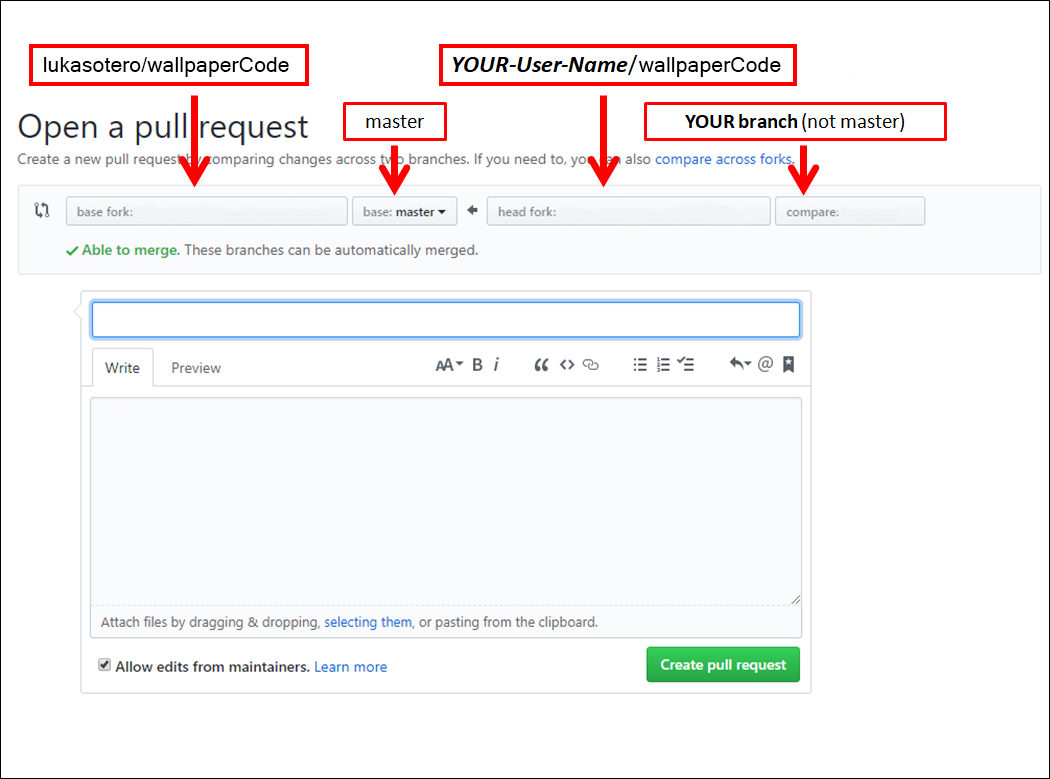
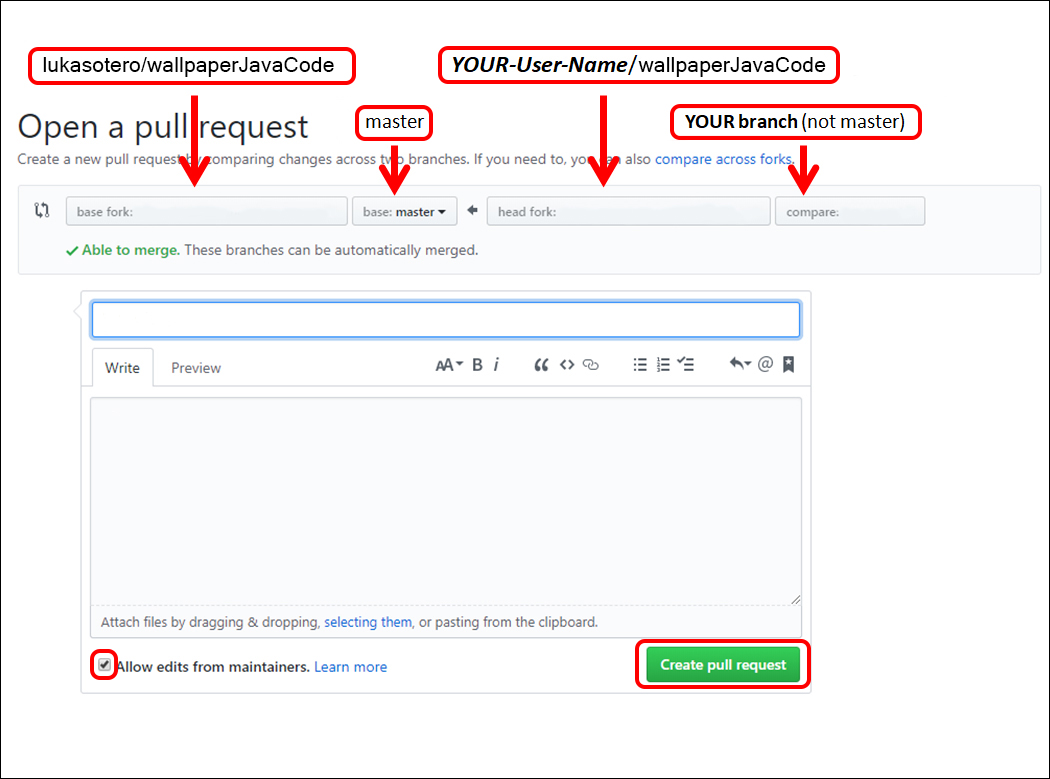
README.md

diff --git a/README.md b/README.md
@@ -1,11 +1,11 @@
-# Wallpaper Code
+# Wallpaper Java Code
 
 _Just a wallpaper, you can use it on Wallpaper Engine._
 
 ## Built with 🛠
 
 - [Javascript](https://developer.mozilla.org/en-US/docs/Web/JavaScript/Reference) - Version: ES12
-- [typed.js](https://github.com/mattboldt/typed.js/) - Library -> v2.0.12
+- [Typed.js](https://github.com/mattboldt/typed.js/) - v2.0.12
 - [HTML](https://developer.mozilla.org/en-US/docs/Web/HTML) - v5
 - [CSS](https://developer.mozilla.org/en-US/docs/Web/CSS) - v3
 
@@ -15,7 +15,7 @@ _Just a wallpaper, you can use it on Wallpaper Engine._
 
 - The objective here is to make a copy of this project and place it in your account.
 - A repository (repo) is how a project is called on GitHub and a fork is a copy of it.
-- Make sure you are on the [main page](https://github.com/lukasotero/wallpaperCode "https://github.com/lukasotero/wallpaperCode") of this repo.
+- Make sure you are on the [main page](https://github.com/lukasotero/wallpaperJavaCode "https://github.com/lukasotero/wallpaperJavaCode") of this repo.
 
 ![Fork](readme-only/fork.jpg)
 
@@ -33,7 +33,7 @@ _Just a wallpaper, you can use it on Wallpaper Engine._
 ### Step 3: Create a branch
 
 - Once the repo has been cloned and you have it open in GitHub desktop it is time to create a new branch.
-- A branch is a way to keep your changes separate from the main part of the project called `Master`. For example if things go wrong and you are not happy with your changes you can simply delete the branch and the main project won't be affected.
+- A branch is a way to keep your changes separate from the main part of the project called `master`. For example if things go wrong and you are not happy with your changes you can simply delete the branch and the main project won't be affected.
 
 ![Branch](readme-only/create-branch.jpg)
 
@@ -50,7 +50,7 @@ _Just a wallpaper, you can use it on Wallpaper Engine._
 
 - Now we need to open the file we are going to edit with your favourite code editor.
 - Find the project folder on your computer.
-- The `index.html` file is directly in the `wallpaperCode` folder.
+- The `index.html` file is directly in the `wallpaperJavaCode` folder.
 - Now you have the file you are going to edit open in your editor and you are ready to start making changes to it.
 
 ---
@@ -83,7 +83,7 @@ _Just a wallpaper, you can use it on Wallpaper Engine._
 - Click on the `Compare and pull request`
 
 - This is what the `Open a pull request` page looks like.
-- REMEMBER _you are trying to merge your branch with the original project not with the `Master` branch on your fork_.
+- REMEMBER _you are trying to merge your branch with the original project not with the `master` branch on your fork_.
 - The image below gives you an idea of how the header of your pull request should look like.
 - On the left is the original project, followed by the master branch. On the right is your fork and the branch you created.
 
